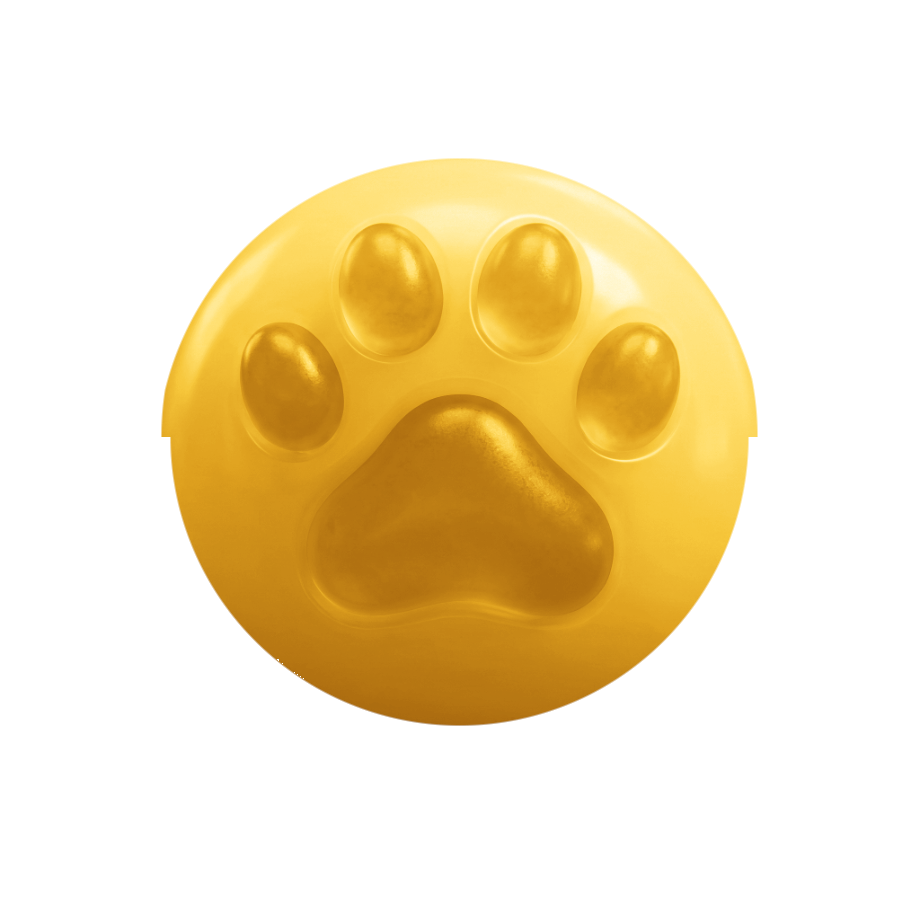
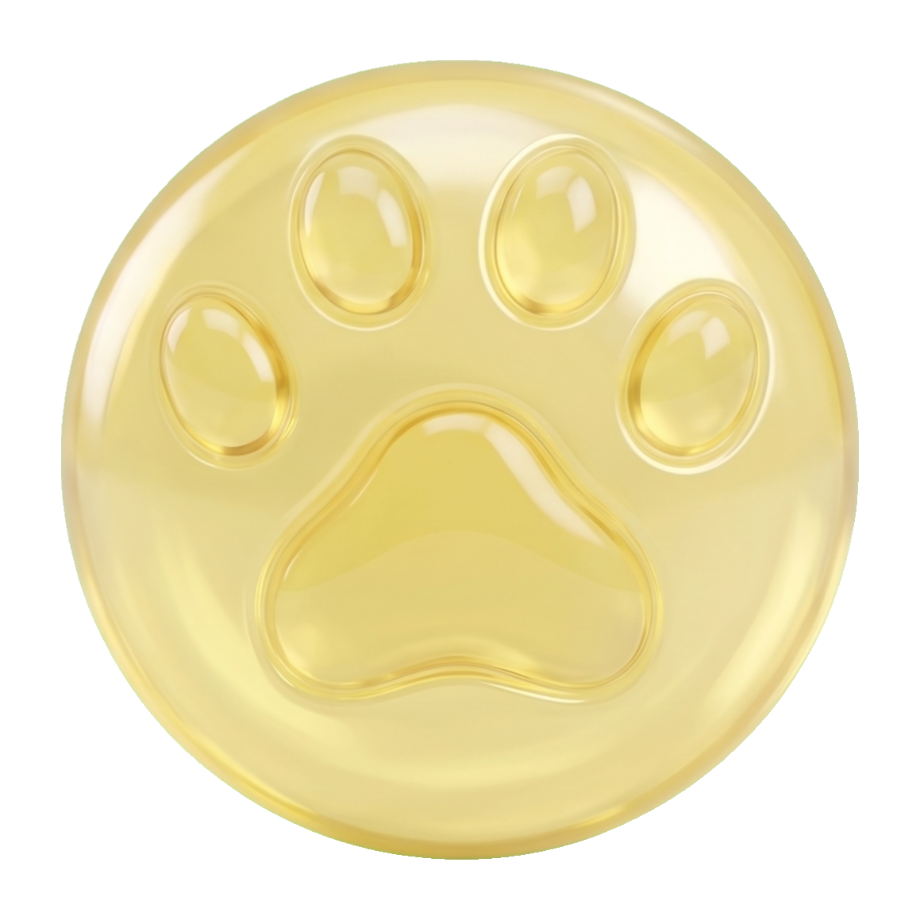
고양이 알은 형이 구운 것으로, 인연은 재는 판을 세운다
■ 고양이 염주 — 원화를 갈아 끼웠다
  형: 「고양이 염주 아직도 맘에 안 들어. 다운받아 뒀으니 활용해서 다시」
  여태는 **바랜 장밋빛 원화 한 장**을 밝기로 재서 빛깔만 옮겨 썼다
  (그러데이션 맵). 그래서 분홍이면 연하다 하고 금이면 누렇다 했다 —
  없는 결은 만들어 낼 수 없었다. 이번엔 분홍·금 두 알이 **따로** 구워져
  왔다. 초록만 걷고 동그랗게 오린다. 손댈 것이 없다.
  여백은 옛 비율(판의 87%)로 맞췄다 — 딱 맞게 오리면 같은 자리에서
  알이 커져 고리가 도넛이 된다.

■ 인연 자가진단 — /dev/yeon (뒷방 주인만)
  형: 「인연도 다시 해봐. 최선을 다해서 고칠 수 있냐?」

  여태 고친 것은 다 **짐작**이었다. 형 폰에서 나는 일을 내 자리에서
  볼 수가 없으니(로그인이 없다) 코드를 읽어 짚고, 고치고, 또 물었다.
  그 왕복이 길어졌다.

  그래서 **재는 판**을 세운다. 한 번 열어 누르면 열 가지를 **진짜로**
  해 보고 되는 것과 안 되는 것을 까닭까지 적는다 —
   · 프로필 읽기 · **고치기**(규칙이 막는지 여기서 드러난다)
   · 시험 그림 만들어 **정말 올려 보기**(다시굽기·저장소 규칙)
   · 올린 것 도로 치우기(시험 자국을 안 남긴다)
   · 서버 뽑기 두드리기 · 지갑 · 메모리 한도 · 브라우저
  배포판에서도 열린다 — 형 폰에서 나는 일을 봐야 하니까. 대신 뒷방
  계정이 아니면 아무것도 안 한다.

diff --git a/src/app/dev/yeon/page.tsx b/src/app/dev/yeon/page.tsx
@@ -1,0 +1,259 @@
+"use client";
+
+// ─────────────────────────────────────────────────────────────
+// 인연 자가진단 — **뒷방 주인만.**
+//
+// 형: 「인연도 다시 해봐. 최선을 다해서 고칠 수 있냐?」
+//
+// 여태 고친 것은 다 **짐작**이었다. 형 폰에서 나는 일을 내 자리에서
+// 볼 수가 없으니(로그인이 없다), 코드를 읽어 짚고 고치고 또 물어봤다.
+// 그 왕복이 길어졌다.
+//
+// 그래서 **재는 판**을 하나 세운다. 형이 한 번 열면 인연이 서는 데
+// 필요한 일곱 가지를 차례로 해 보고, 되는 것과 안 되는 것을 **까닭까지**
+// 적어 준다. 한 번 찍어 보내 주면 그다음은 왕복이 없다.
+//
+// 진짜로 해 본다 — 흉내내지 않는다.
+//   · 프로필 문서를 정말 읽고
+//   · 정말 한 칸을 고쳐 보고(규칙이 막는지)
+//   · 작은 그림을 하나 만들어 **정말 올려 보고**(저장소·다시굽기)
+//   · 그 그림을 도로 지우고
+//   · 서버 뽑기 길을 정말 두드린다
+// 손대는 것은 제 프로필뿐이고, 올린 시험 그림은 그 자리에서 지운다.
+//
+// 배포판에서도 열린다 — 형 폰에서 나는 일을 봐야 하니까. 대신 뒷방
+// 계정이 아니면 아무것도 안 한다.
+// ─────────────────────────────────────────────────────────────
+
+import { useCallback, useEffect, useState } from "react";
+import type { User } from "firebase/auth";
+import { doc, getDoc, setDoc, serverTimestamp } from "firebase/firestore";
+import { db } from "@/lib/firebase";
+import { watchAuth } from "@/lib/sync";
+import { isAdminAccount } from "@/lib/config";
+import { 내프로필, 모자란것, 사진올리기, 사진빼기, 프로필저장 } from "@/lib/yeon";
+import { 오늘뽑기 } from "@/lib/yeonToday";
+
+type 칸 = { 이름: string; 됨: boolean | null; 말: string };
+
+/** 작은 시험 그림 한 장 — 진짜 파일로 만든다(다시굽기 길을 그대로 탄다) */
+async function 시험사진(): Promise<File> {
+  const c = document.createElement("canvas");
+  c.width = 900;
+  c.height = 1200;
+  const g = c.getContext("2d")!;
+  const grd = g.createLinearGradient(0, 0, 900, 1200);
+  grd.addColorStop(0, "#f2789f");
+  grd.addColorStop(1, "#5cc2ac");
+  g.fillStyle = grd;
+  g.fillRect(0, 0, 900, 1200);
+  g.fillStyle = "rgba(255,255,255,0.9)";
+  g.font = "64px serif";
+  g.fillText("시험", 330, 620);
+  const blob = await new Promise<Blob | null>((r) => c.toBlob(r, "image/jpeg", 0.9));
+  c.width = 0;
+  c.height = 0;
+  if (!blob) throw new Error("시험 그림을 못 만들었습니다");
+  return new File([blob], "selftest.jpg", { type: "image/jpeg" });
+}
+
+export default function 인연자가진단() {
+  const [user, setUser] = useState<User | null>(null);
+  const [준비, 준비잡기] = useState(false);
+  const [도는중, 도는중잡기] = useState(false);
+  const [칸들, 칸들잡기] = useState<칸[]>([]);
+
+  useEffect(
+    () =>
+      watchAuth((u) => {
+        setUser(u);
+        준비잡기(true);
+      }),
+    []
+  );
+
+  const 뒷방 = isAdminAccount(user);
+
+  const 재기 = useCallback(async () => {
+    도는중잡기(true);
+    const 줄: 칸[] = [];
+    const 찍 = (이름: string, 됨: boolean | null, 말: string) => {
+      줄.push({ 이름, 됨, 말 });
+      칸들잡기([...줄]);
+    };
+    const 탈말 = (e: unknown) => {
+      const x = e as { code?: string; message?: string };
+      return [x?.code, x?.message].filter(Boolean).join(" · ") || String(e);
+    };
+
+    // ① 로그인
+    찍("로그인", !!user, user ? `${user.uid.slice(0, 8)}… · ${user.email ?? "메일 없음"}` : "없음");
+    if (!user) return void 도는중잡기(false);
+
+    // ② 프로필 읽기
+    let p = null as Awaited<ReturnType<typeof 내프로필>>;
+    try {
+      p = await 내프로필();
+      찍("프로필 읽기", true, p ? `있음 · 못 채운 것: ${모자란것(p).join(", ") || "없음"}` : "아직 없음");
+    } catch (e) {
+      찍("프로필 읽기", false, 탈말(e));
+    }
+
+    // ③ 프로필 고치기 — **규칙이 막는지** 보는 자리
+    try {
+      await 프로필저장({ line: p?.line ?? "" });
+      찍("프로필 고치기", true, "규칙 통과");
+    } catch (e) {
+      찍("프로필 고치기", false, 탈말(e));
+    }
+
+    // ④ 사진 굽기 — 자리를 얼마나 먹나
+    let 파일: File | null = null;
+    try {
+      파일 = await 시험사진();
+      찍("시험 그림 만들기", true, `${Math.round(파일.size / 1024)}KB`);
+    } catch (e) {
+      찍("시험 그림 만들기", false, 탈말(e));
+    }
+
+    // ⑤ 사진 올리기 — 저장소 규칙까지
+    let 올린것: { path: string } | null = null;
+    if (파일) {
+      try {
+        const 재기시작 = performance.now();
+        올린것 = await 사진올리기(파일);
+        찍("사진 올리기", true, `${Math.round(performance.now() - 재기시작)}ms`);
+      } catch (e) {
+        찍("사진 올리기", false, 탈말(e));
+      }
+    }
+
+    // ⑥ 올린 것 치우기 — 시험 자국을 남기지 않는다
+    if (올린것) {
+      try {
+        await 사진빼기(올린것.path);
+        찍("시험 사진 치우기", true, "지웠습니다");
+      } catch (e) {
+        찍("시험 사진 치우기", false, `${탈말(e)} — 직접 빼 주세요`);
+      }
+    }
+
+    // ⑦ 서버 뽑기
+    try {
+      const r = await 오늘뽑기();
+      if ("탈" in r) 찍("오늘의 인연(서버)", false, `탈: ${r.탈}`);
+      else 찍("오늘의 인연(서버)", true, `${r.picks.length}명 · 오늘 칸 ${r.cap}/${r.max}`);
+    } catch (e) {
+      찍("오늘의 인연(서버)", false, 탈말(e));
+    }
+
+    // ⑧ 서버가 깨어 있나
+    try {
+      const raw = await getDoc(doc(db, "yeon-profiles", user.uid));
+      찍("문서 직접 읽기", raw.exists(), raw.exists() ? "있음" : "없음(아직 안 만듦)");
+    } catch (e) {
+      찍("문서 직접 읽기", false, 탈말(e));
+    }
+
+    // ⑨ 지갑 — 연꽃 쓰기 길이 막히지 않았나
+    try {
+      const w = await getDoc(doc(db, "wallets", user.uid));
+      const d = w.exists() ? w.data() : null;
+      찍(
+        "지갑",
+        true,
+        d ? `연꽃 ${d.lotus ?? 0} · 유상 ${d.paid ?? "-"} · 무상 ${d.free ?? "-"}` : "아직 없음"
+      );
+      // 브라우저가 지갑을 고칠 수 있나 — 값은 그대로 두고 at 만 건드려 본다
+      if (d) {
+        try {
+          await setDoc(doc(db, "wallets", user.uid), { lotus: d.lotus ?? 0 }, { merge: true });
+          찍("지갑 고치기", false, "같은 값 쓰기는 규칙이 막는 게 맞습니다(−1 만 허용)");
+        } catch {
+          찍("지갑 고치기", true, "규칙이 −1 만 허용 — 정상");
+        }
+      }
+    } catch (e) {
+      찍("지갑", false, 탈말(e));
+    }
+
+    // ⑩ 판 그리는 일꾼이 쓰는 자리
+    const mem = (performance as unknown as { memory?: { usedJSHeapSize: number; jsHeapSizeLimit: number } }).memory;
+    찍(
+      "메모리",
+      null,
+      mem
+        ? `${Math.round(mem.usedJSHeapSize / 1048576)}MB / 한도 ${Math.round(mem.jsHeapSizeLimit / 1048576)}MB`
+        : "이 브라우저는 안 알려 줍니다",
+    );
+    찍("브라우저", null, navigator.userAgent.slice(0, 120));
+
+    도는중잡기(false);
+  }, [user]);
+
+  const 판 = {
+    minHeight: "100dvh",
+    padding: "24px 16px 80px",
+    font: '13px/1.7 ui-monospace, "Malgun Gothic", monospace',
+    color: "#2a2520",
+    background: "#fbfaf8",
+  } as const;
+
+  if (!준비) return <div style={판}>…</div>;
+  if (!뒷방)
+    return (
+      <div style={판}>
+        <p style={{ fontWeight: 700 }}>인연 자가진단</p>
+        <p style={{ marginTop: 8, color: "#8b8175" }}>
+          뒷방 주인 계정으로 들어온 뒤에 열립니다.
+        </p>
+      </div>
+    );
+
+  return (
+    <div style={판}>
+      <p style={{ fontWeight: 700, fontSize: 15 }}>인연 자가진단</p>
+      <p style={{ marginTop: 6, color: "#8b8175" }}>
+        인연이 서는 데 필요한 것을 차례로 진짜 해 봅니다. 올린 시험 사진은
+        그 자리에서 지웁니다.
+      </p>
+      <button
+        onClick={() => void 재기()}
+        disabled={도는중}
+        style={{
+          marginTop: 16,
+          padding: "12px 22px",
+          borderRadius: 999,
+          border: "none",
+          background: "#e87ba4",
+          color: "#fff",
+          fontSize: 14,
+          fontWeight: 600,
+        }}
+      >
+        {도는중 ? "재는 중…" : "재 보기"}
+      </button>
+
+      <div style={{ marginTop: 22, display: "flex", flexDirection: "column", gap: 10 }}>
+        {칸들.map((k, i) => (
+          <div
+            key={i}
+            style={{
+              padding: "10px 12px",
+              borderRadius: 12,
+              background: "#fff",
+              border: `1px solid ${k.됨 === false ? "rgba(210,87,140,0.4)" : "rgba(26,23,20,0.08)"}`,
+            }}
+          >
+            <b>
+              {k.됨 === null ? "·" : k.됨 ? "✅" : "❌"} {k.이름}
+            </b>
+            <p style={{ margin: "4px 0 0", color: k.됨 === false ? "#c2456f" : "#6b635a", wordBreak: "break-all" }}>
+              {k.말}
+            </p>
+          </div>
+        ))}
+      </div>
+    </div>
+  );
+}

diff --git a/src/app/moktak/page.tsx b/src/app/moktak/page.tsx
@@ -132,7 +132,7 @@ const PRACTICE_TABS: readonly PracticeTab[] = ["moktak", "yeomju", "bowl", "keyc
 /** 그림 판 번호 — 그림을 고쳐 올려도 **파일 이름이 같으면** 브라우저가
     옛 것을 그대로 쥐고 있다. 형이 「아직 진하다」고 한 게 그것이었다.
     고칠 때마다 이 수를 올리면 새 그림으로 갈린다. */
-const 그림판 = 21;
+const 그림판 = 23;
 const 그림 = (s: string) => `${s}?v=${그림판}`;
 
 const SKINS = {
